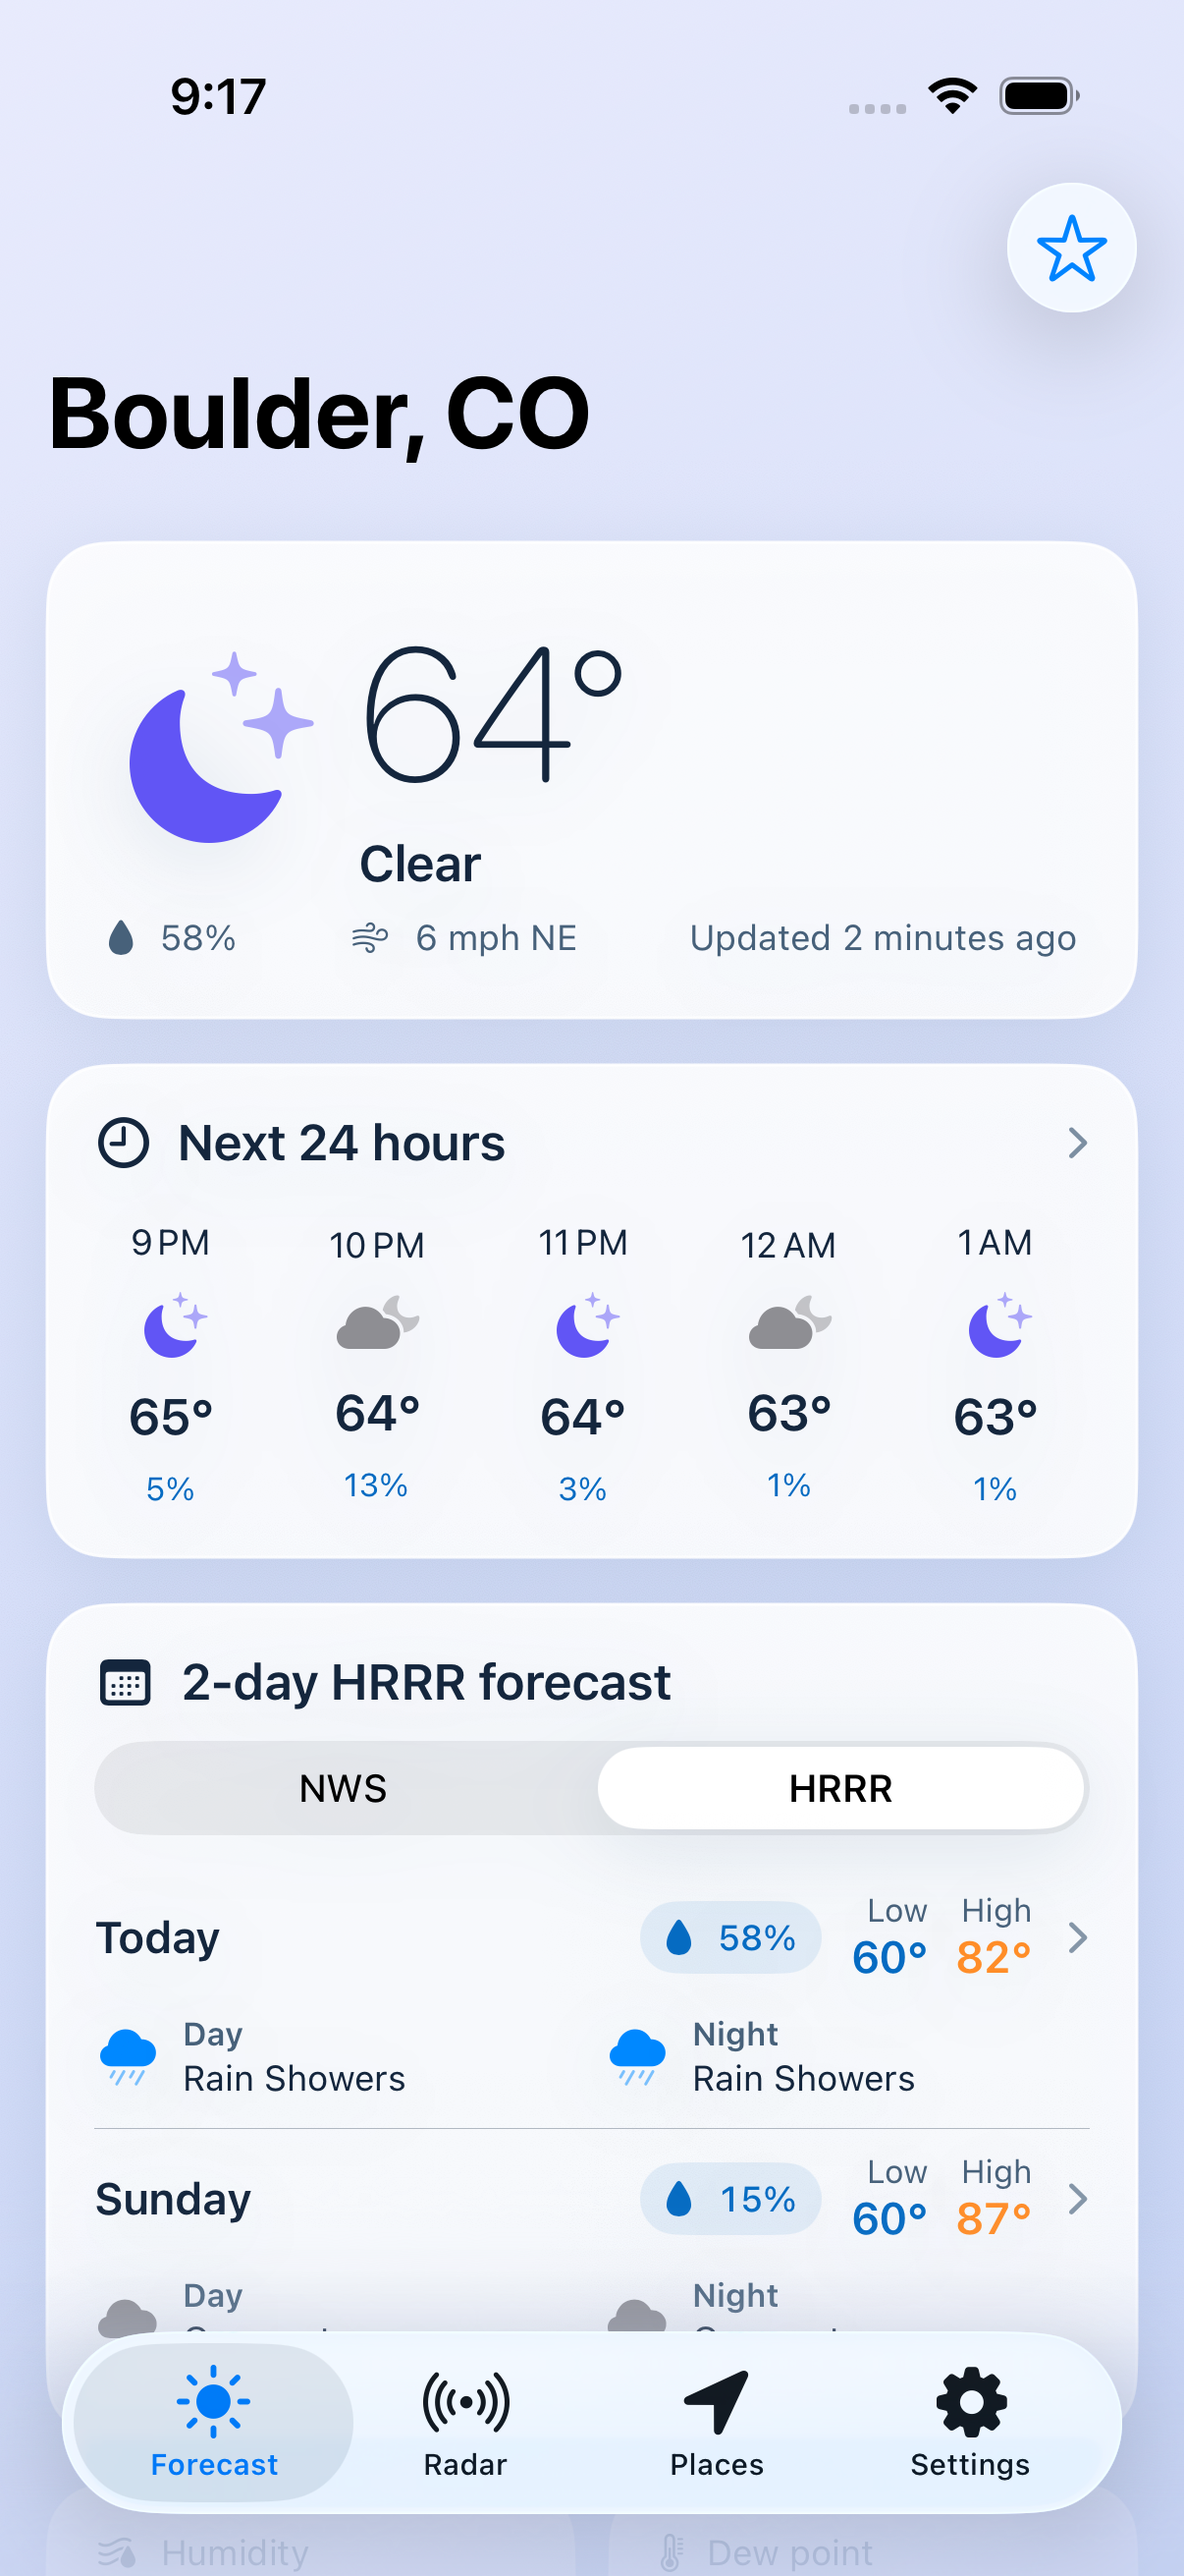
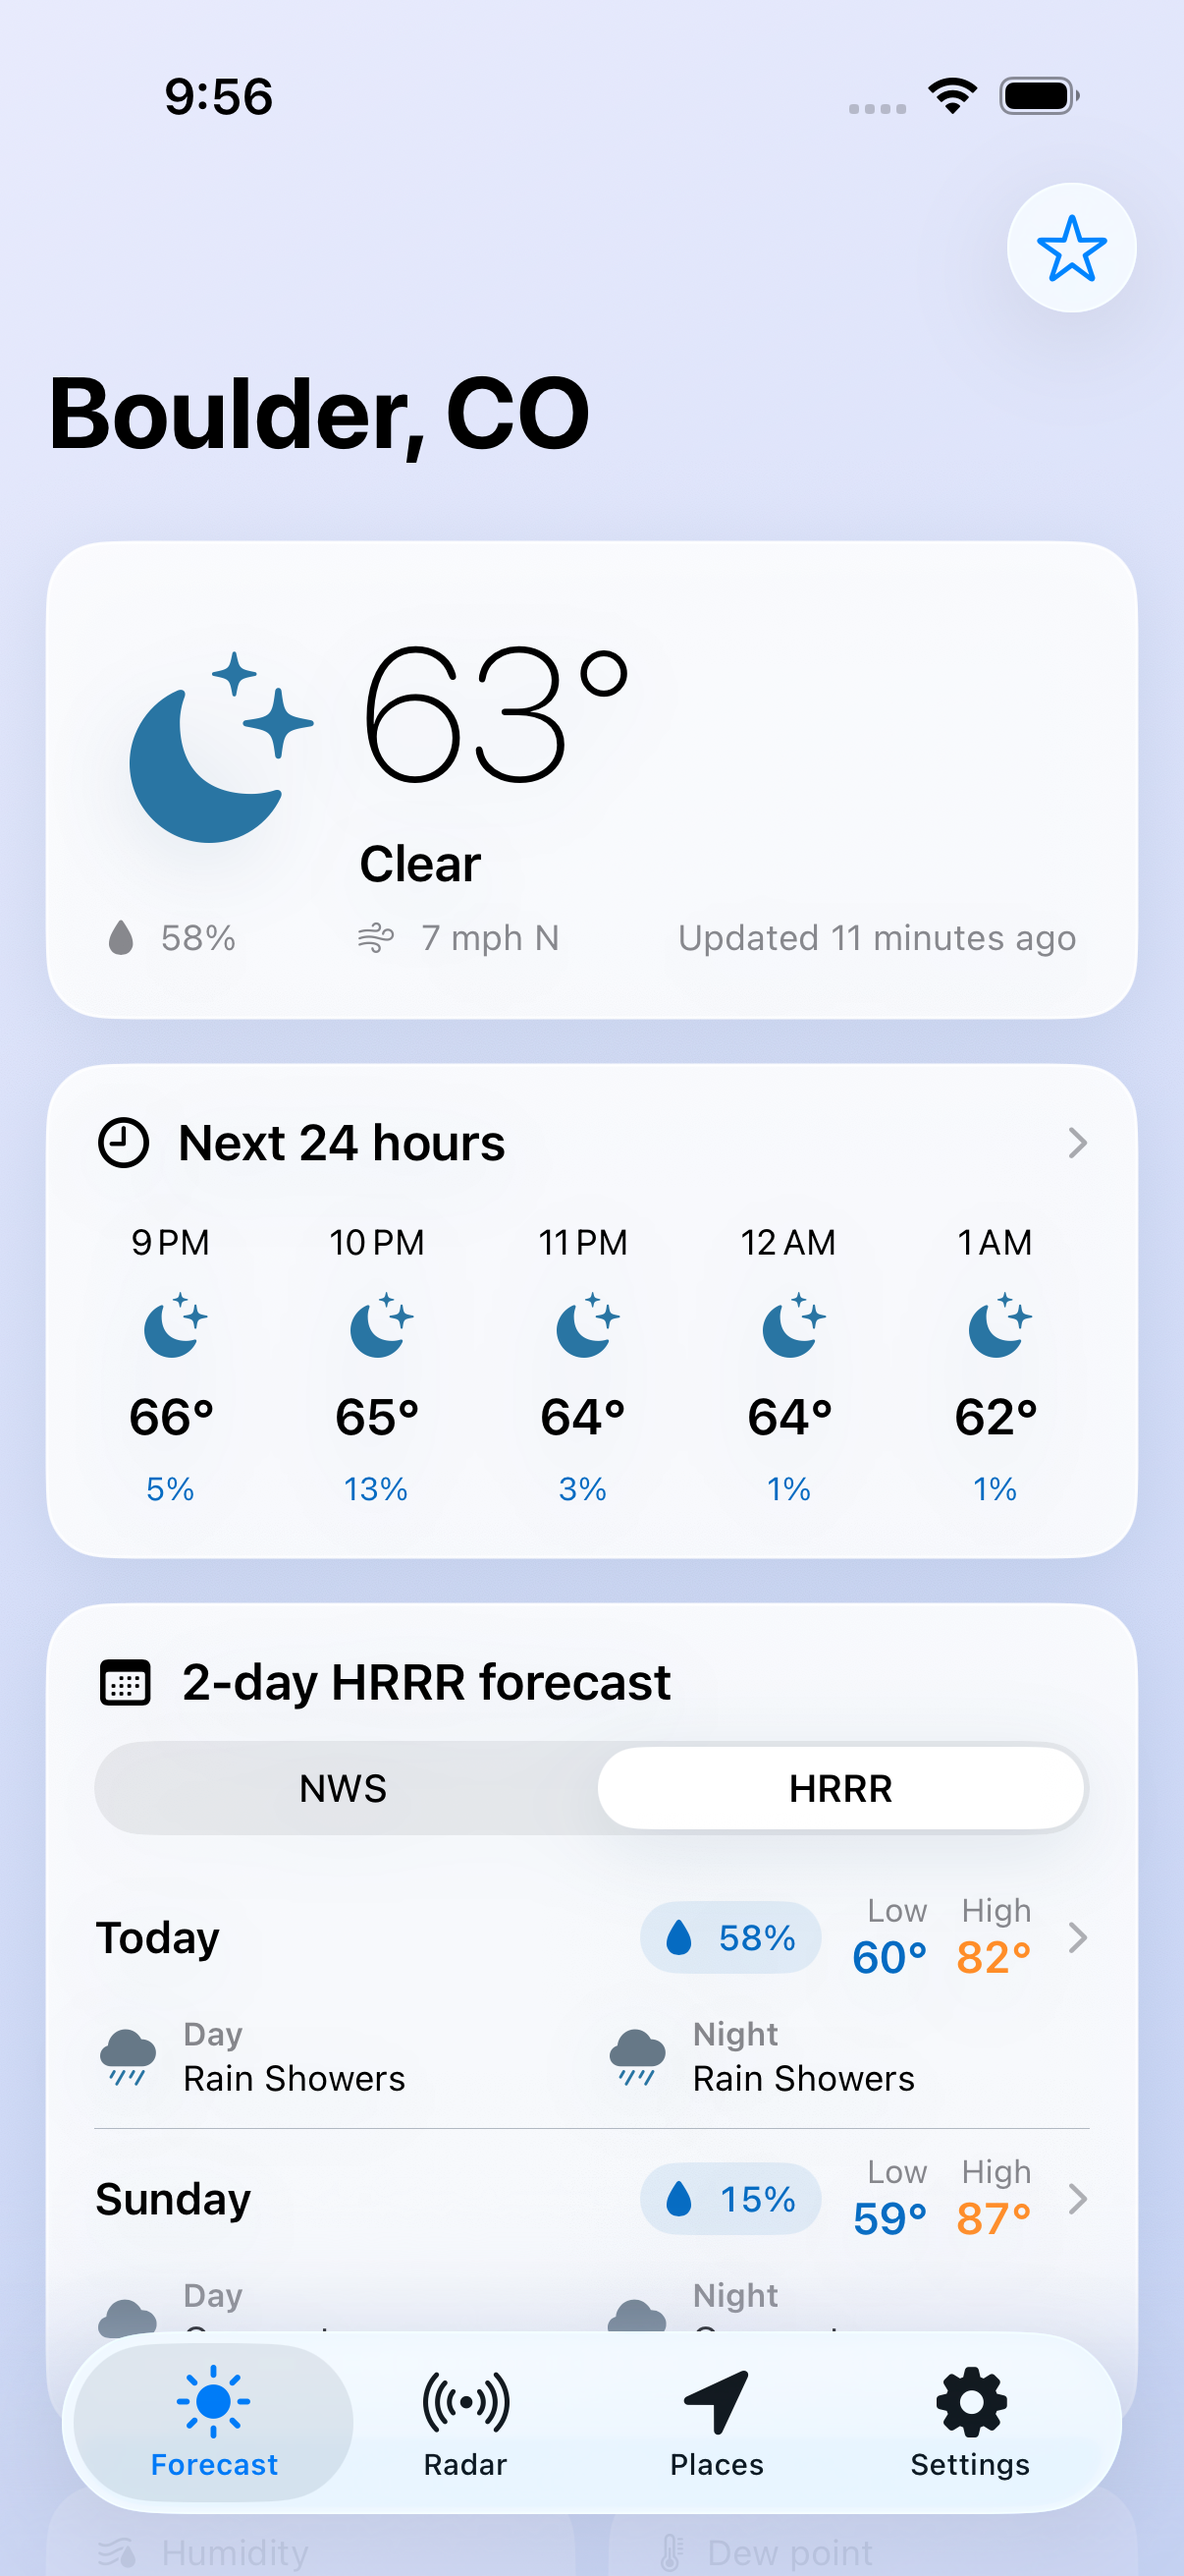
add dark mode for forecast

diff --git a/Drash/Views/ForecastView.swift b/Drash/Views/ForecastView.swift
@@ -5,6 +5,7 @@ import UIKit
 struct ForecastView: View {
     @EnvironmentObject private var model: WeatherViewModel
     @EnvironmentObject private var locationManager: LocationManager
+    @Environment(\.colorScheme) private var colorScheme
     @State private var selectedAlert: WeatherAlert?
 
     private enum ScrollAnchor: Hashable {
@@ -89,15 +90,15 @@ struct ForecastView: View {
                     ProgressView()
                         .tint(ForecastPalette.blue)
                         .padding(8)
-                        .background(.white.opacity(0.92), in: Circle())
-                        .shadow(color: .black.opacity(0.12), radius: 8, y: 3)
+                        .background(ForecastPalette.card, in: Circle())
+                        .overlay(Circle().stroke(ForecastPalette.cardBorder))
+                        .shadow(color: ForecastPalette.shadow, radius: 8, y: 3)
                     Spacer()
                 }
                 .padding(.top, 8)
             }
         }
         .navigationTitle(model.snapshot?.location.displayName ?? "Drash")
-        .toolbarColorScheme(.light, for: .navigationBar)
         .toolbar {
             ToolbarItem(placement: .primaryAction) {
                 if let location = model.snapshot?.location {
@@ -124,10 +125,18 @@ struct ForecastView: View {
 
     private var background: LinearGradient {
         let isNight = model.snapshot?.hourly.first?.isDaytime == false
-        return LinearGradient(
-            colors: isNight
+        let colors: [Color]
+        if colorScheme == .dark {
+            colors = isNight
+                ? [Color(red: 0.025, green: 0.035, blue: 0.08), Color(red: 0.07, green: 0.09, blue: 0.18)]
+                : [Color(red: 0.025, green: 0.075, blue: 0.11), Color(red: 0.055, green: 0.15, blue: 0.21)]
+        } else {
+            colors = isNight
                 ? [Color(red: 0.91, green: 0.92, blue: 0.99), Color(red: 0.78, green: 0.83, blue: 0.96)]
-                : [Color(red: 0.94, green: 0.98, blue: 1), Color(red: 0.73, green: 0.89, blue: 0.97)],
+                : [Color(red: 0.94, green: 0.98, blue: 1), Color(red: 0.73, green: 0.89, blue: 0.97)]
+        }
+        return LinearGradient(
+            colors: colors,
             startPoint: .topLeading,
             endPoint: .bottomTrailing
         )
@@ -179,8 +188,12 @@ private struct CurrentConditionsCard: View {
         VStack(spacing: 8) {
             HStack(alignment: .center, spacing: 18) {
                 Image(systemName: snapshot.hourly.first?.symbolName ?? "cloud.sun.fill")
-                    .symbolRenderingMode(.hierarchical)
-                    .foregroundStyle(snapshot.hourly.first?.weatherTint ?? ForecastPalette.blue)
+                    .symbolRenderingMode(.palette)
+                    .foregroundStyle(
+                        snapshot.hourly.first?.weatherTint ?? ForecastPalette.secondary,
+                        snapshot.hourly.first?.weatherSecondaryTint ?? ForecastPalette.blue,
+                        snapshot.hourly.first?.weatherTertiaryTint ?? ForecastPalette.blue
+                    )
                     .font(.system(size: 64))
                     .accessibilityHidden(true)
                 VStack(alignment: .leading, spacing: 2) {
@@ -274,8 +287,12 @@ private struct HourlyStrip: View {
                             Text(period.startTime, format: .dateTime.hour())
                                 .font(.caption)
                             Image(systemName: period.symbolName)
-                                .symbolRenderingMode(.hierarchical)
-                                .foregroundStyle(period.weatherTint)
+                                .symbolRenderingMode(.palette)
+                                .foregroundStyle(
+                                    period.weatherTint,
+                                    period.weatherSecondaryTint,
+                                    period.weatherTertiaryTint
+                                )
                                 .font(.title2)
                             Text("\(period.temperature(in: unit))°")
                                 .font(.headline)
@@ -592,7 +609,7 @@ private struct MeteogramCard: View {
     }
 
     private var precipitationBarColor: Color {
-        Color(red: 0.42, green: 0.75, blue: 1.0).opacity(0.64)
+        ForecastPalette.precipitation.opacity(0.7)
     }
 
     private var selectedPeriod: ForecastPeriod? {
@@ -698,7 +715,7 @@ private struct MeteogramCard: View {
             .foregroundStyle(.white)
             .padding(.horizontal, 8)
             .padding(.vertical, 4)
-            .background(ForecastPalette.ink.opacity(0.88), in: Capsule())
+            .background(ForecastPalette.badgeBackground, in: Capsule())
             .accessibilityIdentifier("meteogram-time-indicator")
     }
 
@@ -1108,6 +1125,7 @@ private struct DailyForecastRow: Identifiable {
 }
 
 private struct DayForecastDetailView: View {
+    @Environment(\.colorScheme) private var colorScheme
     let row: DailyForecastRow
     let hourlyPeriods: [ForecastPeriod]
     let precipitationAmounts: [PrecipitationAmount]
@@ -1117,10 +1135,9 @@ private struct DayForecastDetailView: View {
     var body: some View {
         ZStack {
             LinearGradient(
-                colors: [
-                    Color(red: 0.94, green: 0.98, blue: 1),
-                    Color(red: 0.78, green: 0.9, blue: 0.97)
-                ],
+                colors: colorScheme == .dark
+                    ? [Color(red: 0.025, green: 0.075, blue: 0.11), Color(red: 0.055, green: 0.15, blue: 0.21)]
+                    : [Color(red: 0.94, green: 0.98, blue: 1), Color(red: 0.78, green: 0.9, blue: 0.97)],
                 startPoint: .topLeading,
                 endPoint: .bottomTrailing
             )
@@ -1169,7 +1186,6 @@ private struct DayForecastDetailView: View {
         .foregroundStyle(ForecastPalette.ink)
         .navigationTitle(row.name)
         .navigationBarTitleDisplayMode(.inline)
-        .toolbarColorScheme(.light, for: .navigationBar)
     }
 }
 
@@ -1182,8 +1198,12 @@ private struct DetailedPeriodCard: View {
         VStack(alignment: .leading, spacing: 14) {
             HStack(spacing: 14) {
                 Image(systemName: period.symbolName)
-                    .symbolRenderingMode(.hierarchical)
-                    .foregroundStyle(period.weatherTint)
+                    .symbolRenderingMode(.palette)
+                    .foregroundStyle(
+                        period.weatherTint,
+                        period.weatherSecondaryTint,
+                        period.weatherTertiaryTint
+                    )
                     .font(.system(size: 42))
                     .frame(width: 52)
 
@@ -1310,8 +1330,12 @@ private struct DailyPeriodSummary: View {
     var body: some View {
         HStack(spacing: 8) {
             Image(systemName: period.symbolName)
-                .symbolRenderingMode(.hierarchical)
-                .foregroundStyle(period.weatherTint)
+                .symbolRenderingMode(.palette)
+                .foregroundStyle(
+                    period.weatherTint,
+                    period.weatherSecondaryTint,
+                    period.weatherTertiaryTint
+                )
                 .frame(width: 22)
 
             VStack(alignment: .leading, spacing: 1) {
@@ -1376,16 +1400,49 @@ private struct MetricTile: View {
 private extension View {
     func glassCard() -> some View {
         background(ForecastPalette.card, in: RoundedRectangle(cornerRadius: 20, style: .continuous))
-            .overlay(RoundedRectangle(cornerRadius: 20, style: .continuous).stroke(.white.opacity(0.9)))
+            .overlay(
+                RoundedRectangle(cornerRadius: 20, style: .continuous)
+                    .stroke(ForecastPalette.cardBorder)
+            )
             .shadow(color: ForecastPalette.shadow, radius: 14, y: 6)
     }
 }
 
 private enum ForecastPalette {
-    static let ink = Color(red: 0.08, green: 0.15, blue: 0.24)
-    static let secondary = Color(red: 0.28, green: 0.38, blue: 0.48)
-    static let blue = Color(red: 0.02, green: 0.42, blue: 0.76)
-    static let card = Color.white.opacity(0.88)
-    static let grid = Color(red: 0.58, green: 0.66, blue: 0.73).opacity(0.35)
-    static let shadow = Color(red: 0.12, green: 0.3, blue: 0.45).opacity(0.12)
+    static let ink = Color(uiColor: .label)
+    static let secondary = Color(uiColor: .secondaryLabel)
+    static let blue = adaptive(
+        light: UIColor(red: 0.02, green: 0.42, blue: 0.76, alpha: 1),
+        dark: UIColor(red: 0.32, green: 0.7, blue: 1, alpha: 1)
+    )
+    static let precipitation = adaptive(
+        light: UIColor(red: 0.28, green: 0.66, blue: 0.96, alpha: 1),
+        dark: UIColor(red: 0.4, green: 0.78, blue: 1, alpha: 1)
+    )
+    static let badgeBackground = adaptive(
+        light: UIColor(red: 0.08, green: 0.15, blue: 0.24, alpha: 0.88),
+        dark: UIColor(red: 0.08, green: 0.24, blue: 0.36, alpha: 0.96)
+    )
+    static let card = adaptive(
+        light: UIColor(white: 1, alpha: 0.88),
+        dark: UIColor(red: 0.075, green: 0.105, blue: 0.14, alpha: 0.88)
+    )
+    static let cardBorder = adaptive(
+        light: UIColor(white: 1, alpha: 0.9),
+        dark: UIColor(white: 1, alpha: 0.14)
+    )
+    static let grid = adaptive(
+        light: UIColor(red: 0.58, green: 0.66, blue: 0.73, alpha: 0.35),
+        dark: UIColor(red: 0.6, green: 0.72, blue: 0.82, alpha: 0.28)
+    )
+    static let shadow = adaptive(
+        light: UIColor(red: 0.12, green: 0.3, blue: 0.45, alpha: 0.12),
+        dark: UIColor(white: 0, alpha: 0.38)
+    )
+
+    private static func adaptive(light: UIColor, dark: UIColor) -> Color {
+        Color(uiColor: UIColor { traits in
+            traits.userInterfaceStyle == .dark ? dark : light
+        })
+    }
 }

diff --git a/Drash/SupportingFiles/WeatherPresentation.swift b/Drash/SupportingFiles/WeatherPresentation.swift
@@ -1,4 +1,5 @@
 import SwiftUI
+import UIKit
 
 extension ForecastPeriod {
     var symbolName: String {
@@ -18,15 +19,79 @@ extension ForecastPeriod {
 
     var weatherTint: Color {
         switch symbolName {
-        case "sun.max.fill": return .yellow
-        case "moon.stars.fill": return .indigo
-        case "cloud.bolt.rain.fill": return Color(red: 0.9, green: 0.32, blue: 0.12)
-        case "cloud.snow.fill": return .cyan
-        case "cloud.rain.fill", "cloud.sleet.fill": return .blue
-        case "cloud.fill", "cloud.fog.fill", "cloud.sun.fill", "cloud.moon.fill": return .gray
-        case "wind": return .blue
-        default: return .blue
+        case "sun.max.fill": return WeatherIconPalette.sun
+        case "moon.stars.fill": return WeatherIconPalette.moon
+        case "cloud.bolt.rain.fill", "cloud.snow.fill", "cloud.rain.fill", "cloud.sleet.fill":
+            return WeatherIconPalette.cloud
+        case "cloud.fill", "cloud.fog.fill", "cloud.sun.fill", "cloud.moon.fill": return WeatherIconPalette.cloud
+        case "wind": return WeatherIconPalette.wind
+        default: return WeatherIconPalette.rain
         }
+    }
+
+    var weatherSecondaryTint: Color {
+        switch symbolName {
+        case "moon.stars.fill": return WeatherIconPalette.star
+        case "cloud.bolt.rain.fill": return WeatherIconPalette.lightning
+        case "cloud.snow.fill": return WeatherIconPalette.snow
+        case "cloud.rain.fill", "cloud.sleet.fill": return WeatherIconPalette.rain
+        case "cloud.sun.fill": return WeatherIconPalette.sun
+        case "cloud.moon.fill": return WeatherIconPalette.moon
+        case "cloud.fog.fill": return WeatherIconPalette.fog
+        default: return weatherTint
+        }
+    }
+
+    var weatherTertiaryTint: Color {
+        symbolName == "cloud.bolt.rain.fill" ? WeatherIconPalette.rain : weatherSecondaryTint
+    }
+}
+
+private enum WeatherIconPalette {
+    private static let lightAccent = UIColor(red: 0.16, green: 0.46, blue: 0.64, alpha: 1)
+    private static let lightCloud = UIColor(red: 0.4, green: 0.47, blue: 0.53, alpha: 1)
+
+    static let sun = adaptive(
+        light: UIColor(red: 0.82, green: 0.61, blue: 0.18, alpha: 1),
+        dark: UIColor(red: 1, green: 0.78, blue: 0.22, alpha: 1)
+    )
+    static let moon = adaptive(
+        light: lightAccent,
+        dark: UIColor(red: 0.72, green: 0.68, blue: 1, alpha: 1)
+    )
+    static let star = adaptive(
+        light: lightAccent,
+        dark: UIColor(red: 1, green: 0.82, blue: 0.35, alpha: 1)
+    )
+    static let lightning = adaptive(
+        light: lightAccent,
+        dark: UIColor(red: 1, green: 0.76, blue: 0.16, alpha: 1)
+    )
+    static let snow = adaptive(
+        light: lightAccent,
+        dark: UIColor(red: 0.42, green: 0.84, blue: 1, alpha: 1)
+    )
+    static let rain = adaptive(
+        light: lightAccent,
+        dark: UIColor(red: 0.34, green: 0.72, blue: 1, alpha: 1)
+    )
+    static let cloud = adaptive(
+        light: lightCloud,
+        dark: UIColor(red: 0.72, green: 0.78, blue: 0.84, alpha: 1)
+    )
+    static let fog = adaptive(
+        light: lightCloud,
+        dark: UIColor(red: 0.52, green: 0.61, blue: 0.69, alpha: 1)
+    )
+    static let wind = adaptive(
+        light: lightAccent,
+        dark: UIColor(red: 0.38, green: 0.78, blue: 0.92, alpha: 1)
+    )
+
+    private static func adaptive(light: UIColor, dark: UIColor) -> Color {
+        Color(uiColor: UIColor { traits in
+            traits.userInterfaceStyle == .dark ? dark : light
+        })
     }
 }
 

diff --git a/README.md b/README.md
@@ -19,7 +19,7 @@ Created by [Thomas Gillis](https://github.com/thomasgillis) in Boulder, for all 
   </tr>
 </table>
 
-## Included in 0.0.3
+## Included in 0.0.4
 
 - An expandable next-24-hours card powered by high-resolution NOAA HRRR guidance
 - Per-place daily switching between the seven-day NWS outlook and HRRR's shorter horizon
